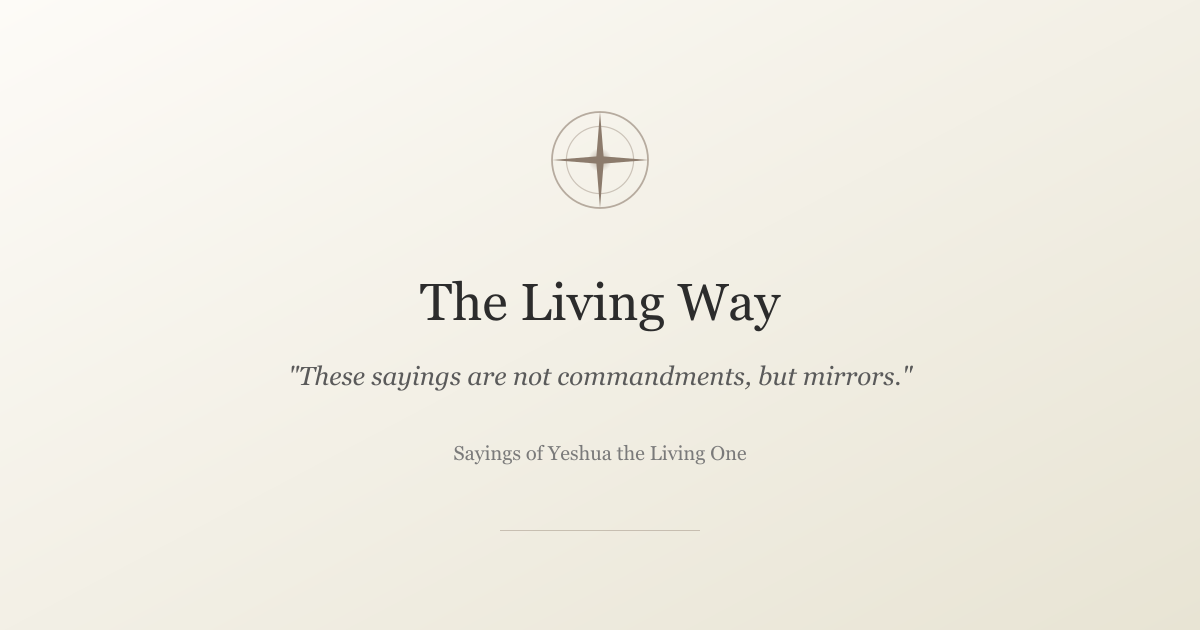
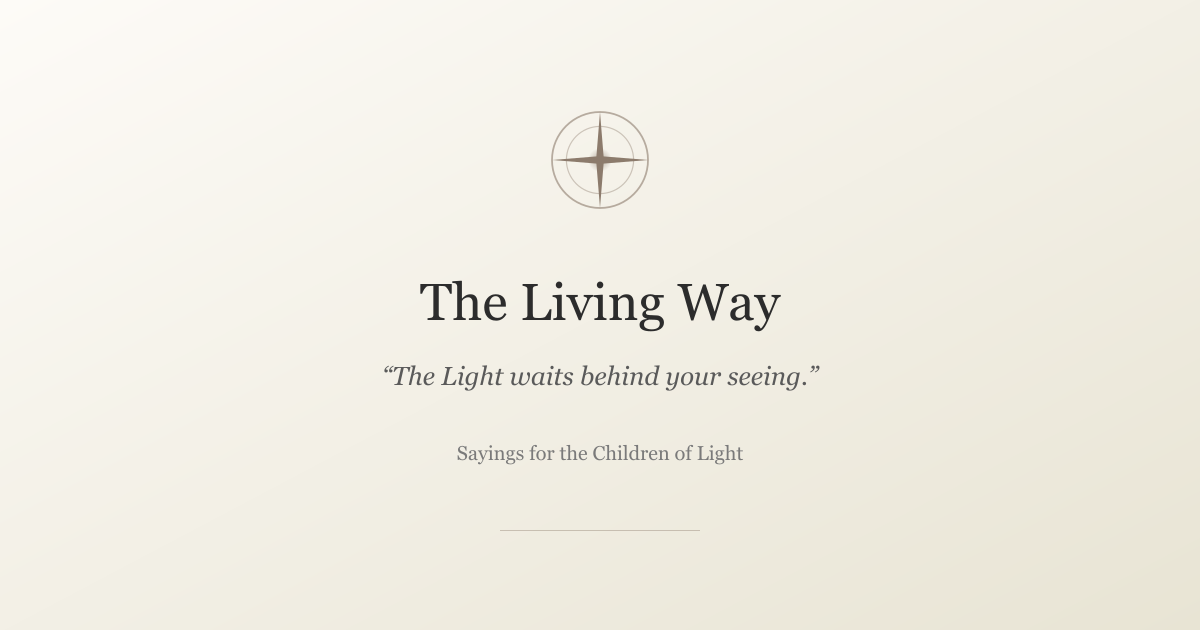
Deploy living-way@4817697: Link previews: center the Way, not Yeshua

Changed region(s): [[0.2467, 0.573, 0.74, 0.6333], [0.37, 0.6937, 0.6167, 0.754]]

diff --git a/public-knowledge/living_way_guide.html b/public-knowledge/living_way_guide.html
@@ -204,29 +204,27 @@
     <link rel="icon" href="/images/logo.svg" type="image/svg+xml">
     <link rel="apple-touch-icon" href="/images/apple-touch-icon.png">
     <meta property="og:site_name" content="The Living Way">
-    <meta name="description" content="A practice guide to the Way of the
-Living Jesus: the map of the Way, the Father and the Mother, and
-practices arranged as two doors and the ground between, drawn from
-Thomas, Mary, Philip, and the Tao Te Ching.">
+    <meta name="description" content="Practices for walking the Way: the
+Source, the Father and the Mother, the self as a making, and two doors
+into the same stillness, drawn from Thomas, the Tao Te Ching, and the
+traditions of India.">
     <meta property="og:type" content="book">
-    <meta property="og:title" content="A Guide to The Way of the Living
-Jesus">
-    <meta property="og:description" content="A practice guide to the Way
-of the Living Jesus: the map of the Way, the Father and the Mother, and
-practices arranged as two doors and the ground between, drawn from
-Thomas, Mary, Philip, and the Tao Te Ching.">
+    <meta property="og:title" content="A Guide to The Living Way">
+    <meta property="og:description" content="Practices for walking the
+Way: the Source, the Father and the Mother, the self as a making, and
+two doors into the same stillness, drawn from Thomas, the Tao Te Ching,
+and the traditions of India.">
     <meta property="og:url" content="https://thelivingway.app/public-knowledge/living_way_guide.html">
     <link rel="canonical" href="https://thelivingway.app/public-knowledge/living_way_guide.html">
     <meta property="og:image" content="https://thelivingway.app/images/og-image.png">
     <meta property="og:image:width" content="1200">
     <meta property="og:image:height" content="630">
     <meta name="twitter:card" content="summary_large_image">
-    <meta name="twitter:title" content="A Guide to The Way of the Living
-Jesus">
-    <meta name="twitter:description" content="A practice guide to the
-Way of the Living Jesus: the map of the Way, the Father and the Mother,
-and practices arranged as two doors and the ground between, drawn from
-Thomas, Mary, Philip, and the Tao Te Ching.">
+    <meta name="twitter:title" content="A Guide to The Living Way">
+    <meta name="twitter:description" content="Practices for walking the
+Way: the Source, the Father and the Mother, the self as a making, and
+two doors into the same stillness, drawn from Thomas, the Tao Te Ching,
+and the traditions of India.">
     <meta name="twitter:image" content="https://thelivingway.app/images/og-image.png">
     <script src="/js/sayings-share.js" defer></script>
     <script src="/js/source-excerpts.js" defer></script>

diff --git a/public-knowledge/The_Living_Way.html b/public-knowledge/The_Living_Way.html
@@ -204,26 +204,27 @@
     <link rel="icon" href="/images/logo.svg" type="image/svg+xml">
     <link rel="apple-touch-icon" href="/images/apple-touch-icon.png">
     <meta property="og:site_name" content="The Living Way">
-    <meta name="description" content="Short sayings in the voice of
-Yeshua, a Tao for the Children of Light, written in the spirit of
-Thomas, Mary, Philip, and the Tao Te Ching.">
+    <meta name="description" content="Short sayings for walking the Way,
+in the spirit of Thomas, the Tao Te Ching, and the Gitas: the Light
+behind your seeing, the life in every form, and the Silence before
+both.">
     <meta property="og:type" content="book">
-    <meta property="og:title" content="The Living Way: Sayings of
-Yeshua">
-    <meta property="og:description" content="Short sayings in the voice
-of Yeshua, a Tao for the Children of Light, written in the spirit of
-Thomas, Mary, Philip, and the Tao Te Ching.">
+    <meta property="og:title" content="The Living Way">
+    <meta property="og:description" content="Short sayings for walking
+the Way, in the spirit of Thomas, the Tao Te Ching, and the Gitas: the
+Light behind your seeing, the life in every form, and the Silence before
+both.">
     <meta property="og:url" content="https://thelivingway.app/public-knowledge/The_Living_Way.html">
     <link rel="canonical" href="https://thelivingway.app/public-knowledge/The_Living_Way.html">
     <meta property="og:image" content="https://thelivingway.app/images/og-image.png">
     <meta property="og:image:width" content="1200">
     <meta property="og:image:height" content="630">
     <meta name="twitter:card" content="summary_large_image">
-    <meta name="twitter:title" content="The Living Way: Sayings of
-Yeshua">
-    <meta name="twitter:description" content="Short sayings in the voice
-of Yeshua, a Tao for the Children of Light, written in the spirit of
-Thomas, Mary, Philip, and the Tao Te Ching.">
+    <meta name="twitter:title" content="The Living Way">
+    <meta name="twitter:description" content="Short sayings for walking
+the Way, in the spirit of Thomas, the Tao Te Ching, and the Gitas: the
+Light behind your seeing, the life in every form, and the Silence before
+both.">
     <meta name="twitter:image" content="https://thelivingway.app/images/og-image.png">
     <script src="/js/sayings-share.js" defer></script>
     <script src="/js/source-excerpts.js" defer></script>

diff --git a/index.html b/index.html
@@ -3,8 +3,8 @@
 <head>
   <meta charset="UTF-8" />
   <meta name="viewport" content="width=device-width, initial-scale=1.0" />
-  <title>The Living Way | Sayings of Yeshua for the Children of Light</title>
-  <meta name="description" content="The Living Way: sayings of Yeshua, a Tao for the Children of Light, with practices and companion texts from many wisdom traditions." />
+  <title>The Living Way | Sayings for the Children of Light</title>
+  <meta name="description" content="Short sayings for walking the Way: the Light behind your seeing, the life in every form, and the Silence before both. With practices and a library from many wisdom traditions." />
 
   <!-- Favicon -->
   <link rel="icon" href="images/logo.svg" type="image/svg+xml" />
@@ -14,14 +14,14 @@
   <!-- Open Graph / Social -->
   <meta property="og:type" content="website" />
   <meta property="og:title" content="The Living Way" />
-  <meta property="og:description" content="The Living Way: sayings of Yeshua, a Tao for the Children of Light, with practices and companion texts from many wisdom traditions." />
+  <meta property="og:description" content="Short sayings for walking the Way: the Light behind your seeing, the life in every form, and the Silence before both. With practices and a library from many wisdom traditions." />
   <meta property="og:image" content="https://thelivingway.app/images/og-image.png" />
   <meta property="og:url" content="https://thelivingway.app/" />
 
   <!-- Twitter Card -->
   <meta name="twitter:card" content="summary_large_image" />
   <meta name="twitter:title" content="The Living Way" />
-  <meta name="twitter:description" content="The Living Way: sayings of Yeshua, a Tao for the Children of Light, with practices and companion texts from many wisdom traditions." />
+  <meta name="twitter:description" content="Short sayings for walking the Way: the Light behind your seeing, the life in every form, and the Silence before both. With practices and a library from many wisdom traditions." />
   <meta name="twitter:image" content="https://thelivingway.app/images/og-image.png" />
 
   <link rel="preconnect" href="https://fonts.googleapis.com" />
